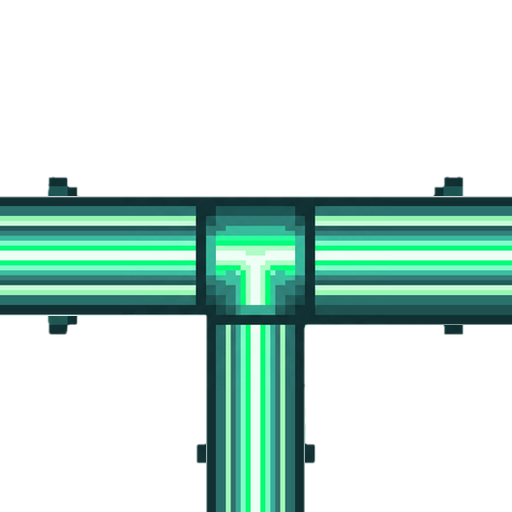
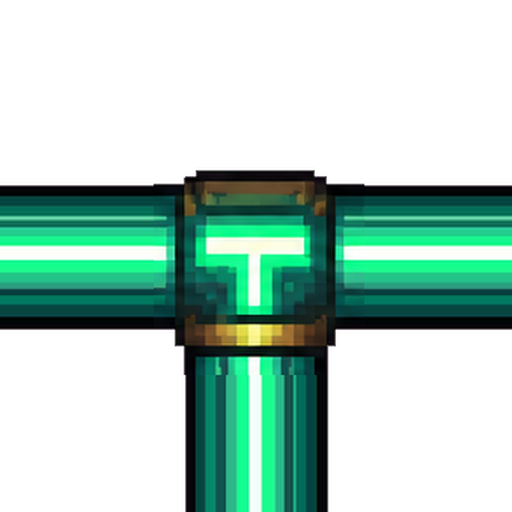
Puiutu: the Power Conduit puzzle matches the cave door, on a riveted board ringed with crystals
Pieces are glowing glass pipes with brass collars, built by gen_circuit_tiles.py so every arm
meets the cell edge at its centre. The new board's slate play area sets the grid (53.9%).

diff --git a/life_of_puiutu_game.html b/life_of_puiutu_game.html
@@ -14558,8 +14558,10 @@ const CIMG={};
 // normalized sprites already touch the cell edges, so all pieces use the same scale now
 const CIRC_SCALE={ straight:1.0, corner:1.0, t:1.0, cross:1.0, source:1.0, target:1.0 };
 // ── dev layout tool (live tweak frame/grid/gap/piece scale; persisted) ──
-const CIRC_DEV=Object.assign({frame:582, grid:54, gap:0, scale:1.03},
-  (()=>{ try{ return JSON.parse(localStorage.getItem('puiutu_circ3')||'{}'); }catch(e){ return {}; } })());
+// grid = the board art's slate play area (53.9% of circuit/board.png, centred); a new storage key so
+// tweaks made for the old board don't shift the grid on this one
+const CIRC_DEV=Object.assign({frame:582, grid:53.9, gap:0, scale:1.03},
+  (()=>{ try{ return JSON.parse(localStorage.getItem('puiutu_circ4')||'{}'); }catch(e){ return {}; } })());
 function circApplyDev(){
   const f=document.getElementById('circuitFrame'), gr=document.getElementById('circuitGrid');
   if(f) f.style.width='min(94vw,'+CIRC_DEV.frame+'px)';
@@ -14568,7 +14570,7 @@ function circApplyDev(){
     im.style.transform='rotate('+((+im.dataset.rot||0)*90)+'deg) scale('+((+im.dataset.base||1.2)*CIRC_DEV.scale)+')'; });
   const ro=document.getElementById('circuitDevRead'); if(ro) ro.textContent=JSON.stringify(CIRC_DEV);
 }
-function circDevSet(k,v){ CIRC_DEV[k]=parseFloat(v); localStorage.setItem('puiutu_circ3',JSON.stringify(CIRC_DEV)); circApplyDev(); }
+function circDevSet(k,v){ CIRC_DEV[k]=parseFloat(v); localStorage.setItem('puiutu_circ4',JSON.stringify(CIRC_DEV)); circApplyDev(); }
 function circDevInit(){
   const map={cdFrame:'frame',cdGrid:'grid',cdGap:'gap',cdScale:'scale'};
   for(const id in map){ const el=document.getElementById(id); if(!el) continue; el.value=CIRC_DEV[map[id]]; el.oninput=()=>circDevSet(map[id],el.value); }

diff --git a/gen_circuit_tiles.py b/gen_circuit_tiles.py
@@ -1,0 +1,57 @@
+#!/usr/bin/env python3
+# ─────────────────────────────────────────────────────────────────────────────
+#  gen_circuit_tiles.py — face piesele puzzle-ului Power Conduit (circuit/norm/*.png) din
+#  foaia generata cu ChatGPT (circuit/_orig_backup/pipes_gpt_raw.png). Pastreaza centrul
+#  desenat (mansonul, cotul, nodul T / cruce, sursa, prizele) si prelungeste bratele pana la
+#  marginea celulei din felii de teava, ca toate piesele sa se lege exact pe mijloc.
+#     python3 gen_circuit_tiles.py
+# ─────────────────────────────────────────────────────────────────────────────
+import os
+import numpy as np
+from PIL import Image
+from scipy import ndimage
+
+ROOT = os.path.dirname(os.path.abspath(__file__))
+SRC = os.path.join(ROOT, 'circuit', '_orig_backup', 'pipes_gpt_raw.png')
+TS = 340            # tile size in sheet pixels: the pipe (~92px) is ~27% of a cell
+
+a = np.array(Image.open(SRC).convert('RGB')).astype(float)
+r, g, b = a[..., 0], a[..., 1], a[..., 2]
+bgm = (r > 190) & (b > 190) & (g < 100)                       # the magenta background
+alpha = np.clip(ndimage.distance_transform_edt(~bgm) / 1.5, 0, 1)
+edge = alpha < 1
+A = np.dstack([np.where(edge, np.minimum(r, g*0.9+10), r), g,
+               np.where(edge, np.minimum(b, g*1.05+10), b), alpha*255]).clip(0, 255).astype(np.uint8)
+
+HS = A[170:283, 120:121]; HC = 226 - 170        # 1px slice of the horizontal pipe, its centre row
+VS = A[370:371, 1482:1590]; VC = 1535 - 1482    # 1px slice of the vertical pipe, its centre column
+C = TS // 2
+
+def tile(hub, centre, arms):
+    x0, y0, x1, y1 = hub; cx, cy = centre
+    T = np.zeros((TS, TS, 4), np.uint8)
+    for d in arms:                               # arms first, from the centre to the cell edge
+        if d in 'EW':
+            for x in (range(C, TS) if d == 'E' else range(0, C+1)): T[C-HC:C-HC+HS.shape[0], x:x+1] = HS
+        else:
+            for y in (range(0, C+1) if d == 'N' else range(C, TS)): T[y:y+1, C-VC:C-VC+VS.shape[1]] = VS
+    hubimg = A[y0:y1, x0:x1]; ox, oy = C-(cx-x0), C-(cy-y0)   # then the drawn hub, centred
+    tx0, ty0 = max(0, ox), max(0, oy); tx1, ty1 = min(TS, ox+hubimg.shape[1]), min(TS, oy+hubimg.shape[0])
+    sub = hubimg[ty0-oy:ty1-oy, tx0-ox:tx1-ox].astype(float); dst = T[ty0:ty1, tx0:tx1].astype(float)
+    al = sub[..., 3:4] / 255; out = dst.copy()
+    out[..., :3] = sub[..., :3]*al + dst[..., :3]*(1-al); out[..., 3:4] = np.maximum(dst[..., 3:4], sub[..., 3:4])
+    T[ty0:ty1, tx0:tx1] = out.astype(np.uint8)
+    return Image.fromarray(T).resize((512, 512), Image.LANCZOS)
+
+PIECES = {   # hub crop in the sheet, the hub's pipe centre, and the arms (game BASE directions)
+    'straight':  ((185, 165, 285, 290),   (233, 226),  'EW'),
+    'corner':    ((545, 60, 730, 292),    (598, 226),  'NE'),
+    'cross':     ((1465, 160, 1605, 295), (1535, 226), 'NESW'),
+    't':         ((1030, 160, 1170, 305), (1098, 226), 'WES'),
+    'source':    ((62, 505, 360, 765),    (180, 635),  'E'),
+    'target':    ((530, 505, 845, 765),   (722, 635),  'W'),
+    'target_on': ((955, 505, 1268, 765),  (1143, 635), 'W'),
+}
+for k, (hub, c, arms) in PIECES.items():
+    tile(hub, c, arms).save(os.path.join(ROOT, 'circuit', 'norm', k + '.png'))
+    print('circuit/norm/%s.png' % k)
